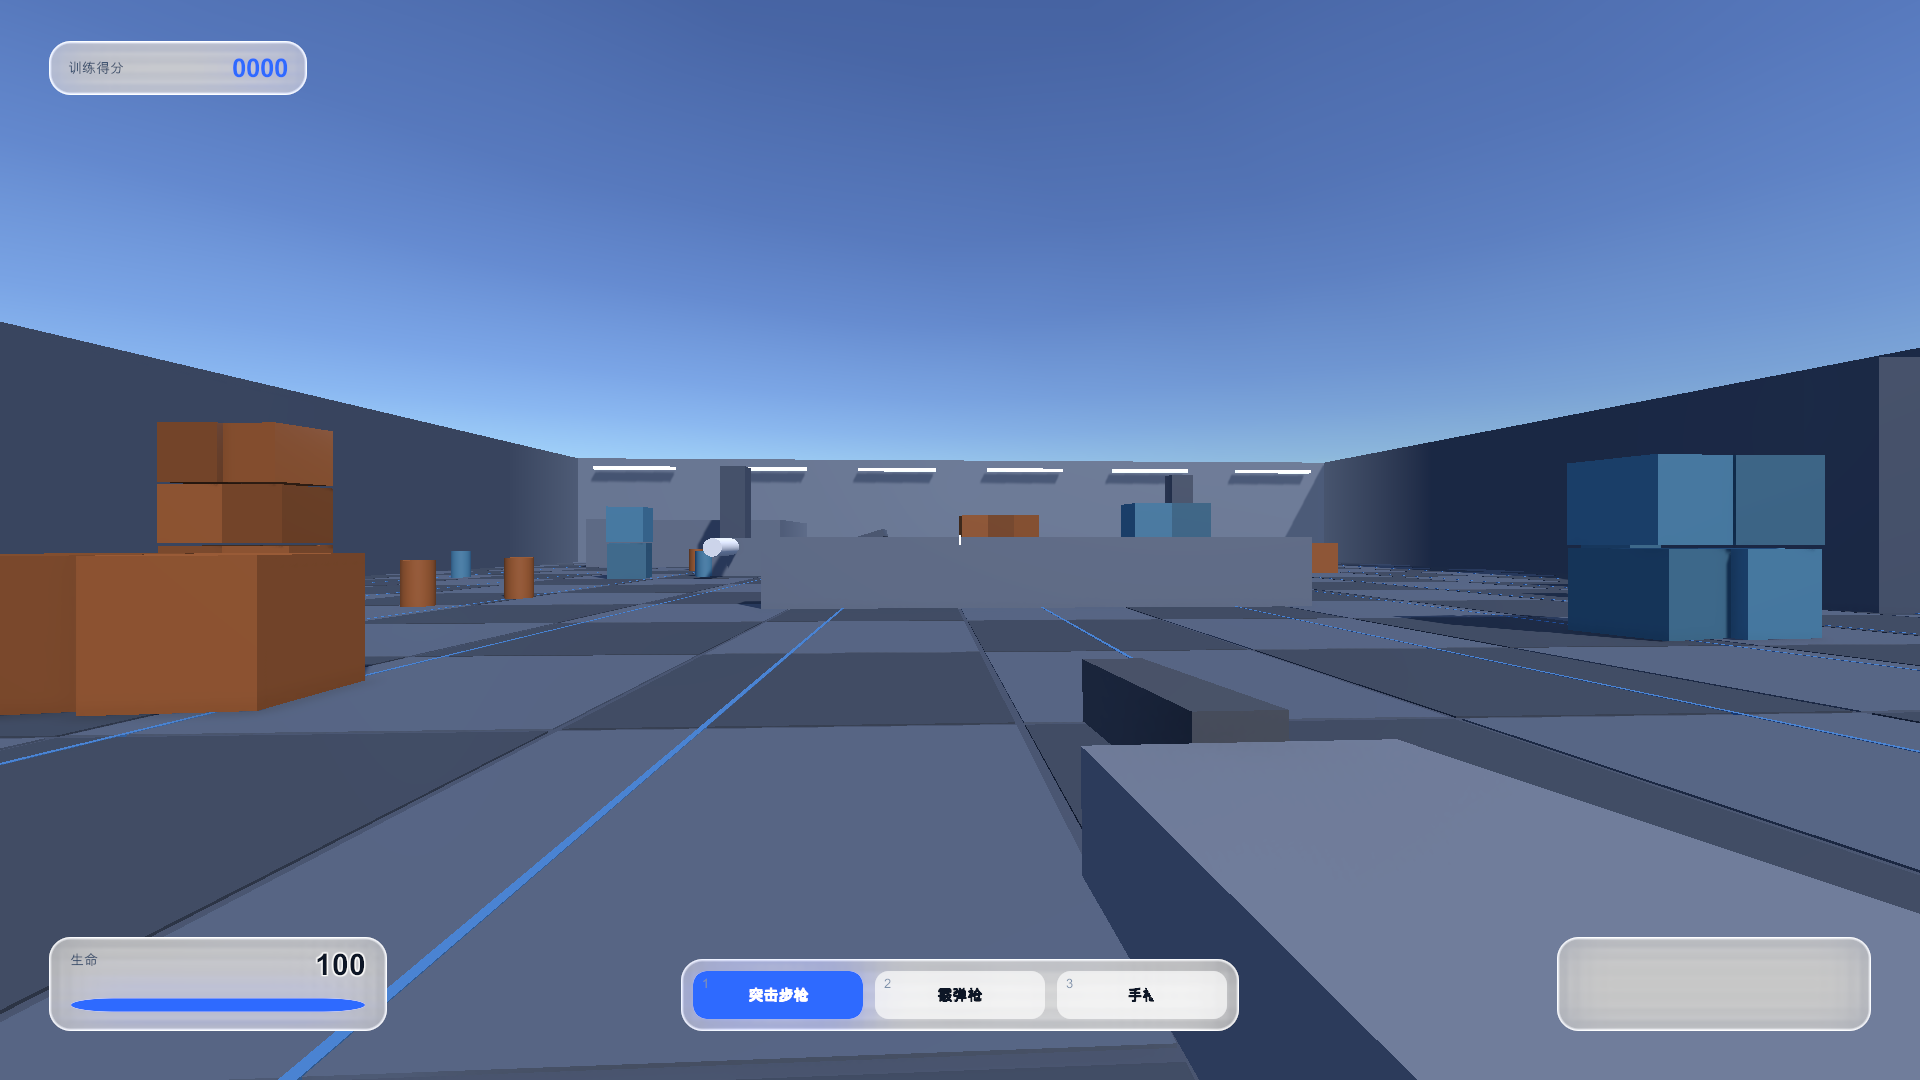
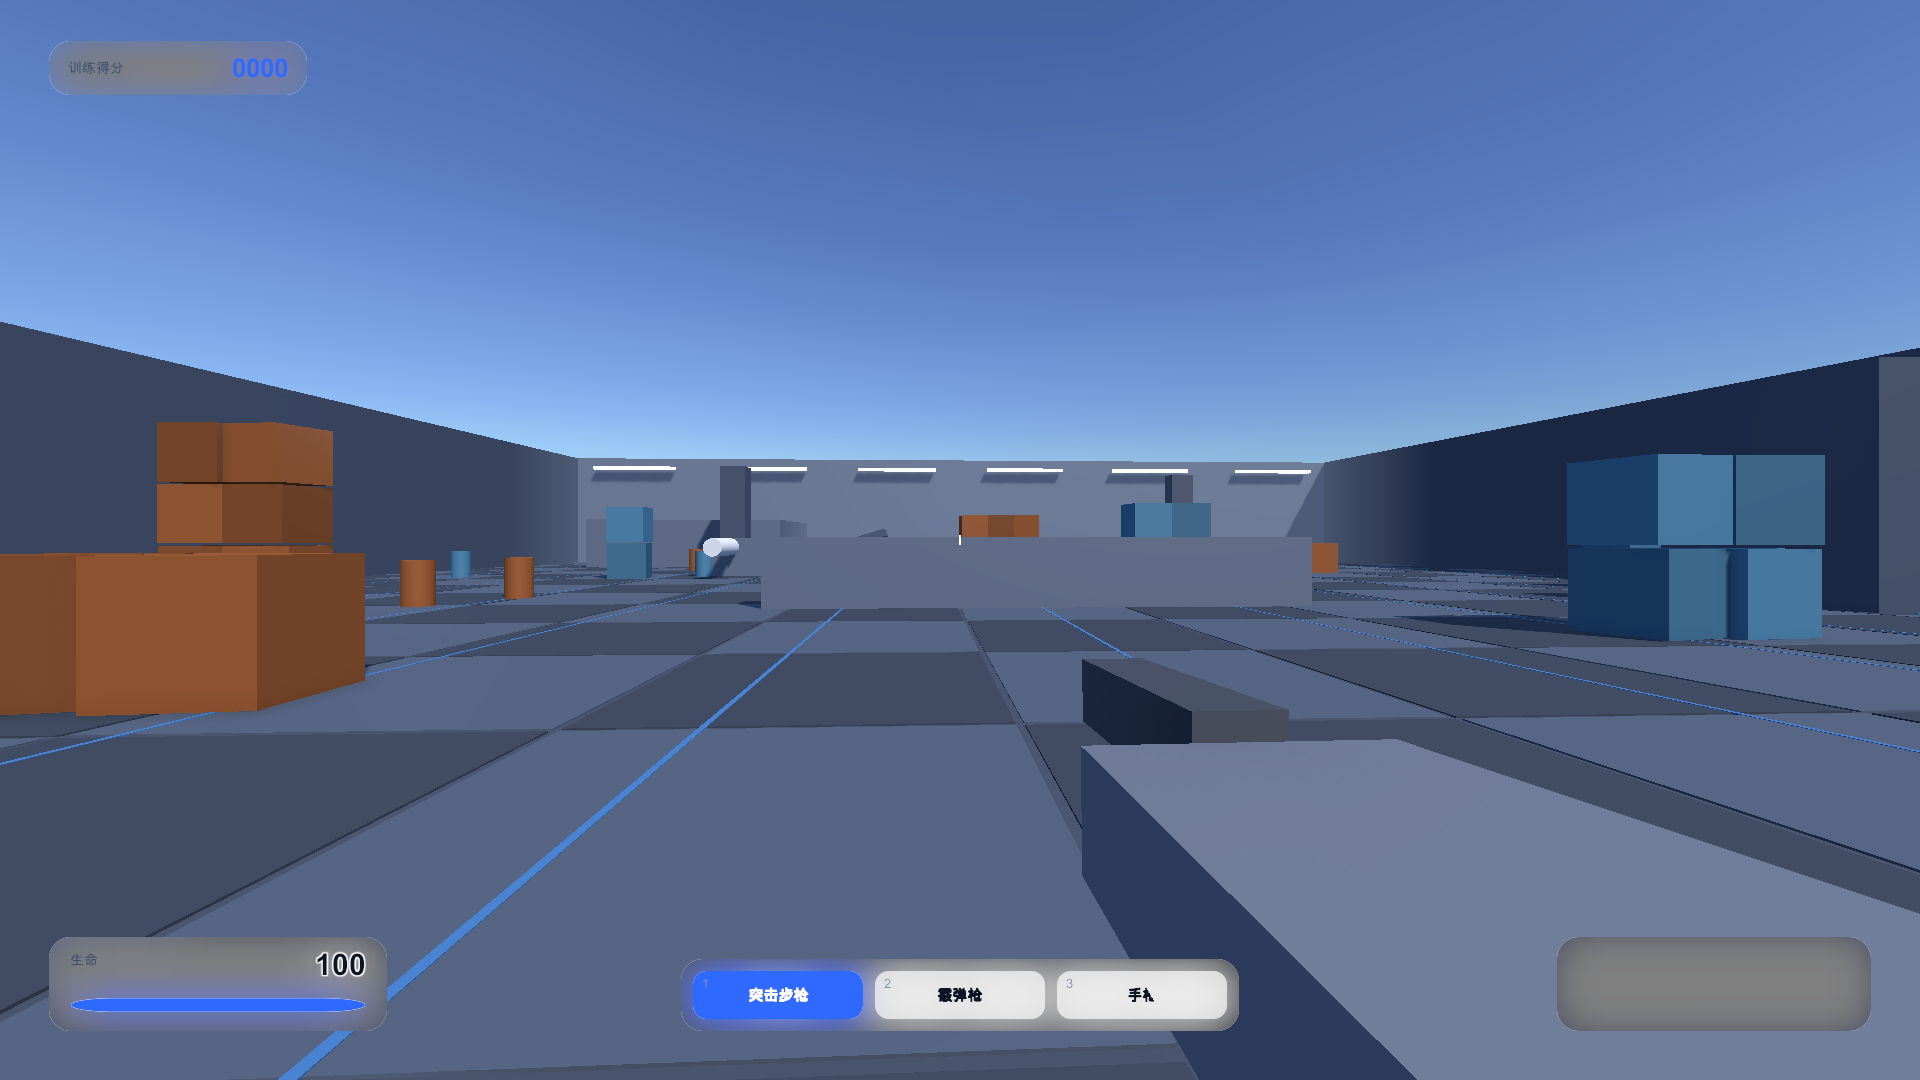
fix(毛玻璃): 去掉白色叠加（奶白度/边缘高光全部移除），模糊改为 17 抽真高斯核（exp 权重，σ 可选，迭代 3 次）
- UI/FrostedGlass：面板内容 = 高斯模糊结果原样输出，只保留圆角与不透明度；_Tint 改为乘法（默认白）
- Hidden/FrostedGlass/Blur：17 抽分离高斯，权重 exp(-x²/2σ²) 现算，核宽由 σ 控制
- Feature 参数：downsample 1/4、σ 2.4、迭代 3（都可在 Renderer 资产上调）
- 顺带修掉 GlassDemoTools 里残留的 radius 字段引用

diff --git a/Assets/Scripts/UI/HudView.cs b/Assets/Scripts/UI/HudView.cs
@@ -144,7 +144,7 @@ namespace GlassUI
 
         void BuildHealth(Transform root)
         {
-            var panel = GlassUI.Panel(root, "Health Panel", GlassTheme.RadiusCard, 0.26f, 1.3f);
+            var panel = GlassUI.Panel(root, "Health Panel", GlassTheme.RadiusCard);
             GlassUI.Place(panel.rectTransform, new Vector2(0f, 0f), new Vector2(340f, 96f), new Vector2(48f, 48f), new Vector2(0f, 0f));
 
             var label = GlassUI.Label(panel.transform, "生命", 14, TextAnchor.UpperLeft, GlassTheme.InkSoft);
@@ -159,7 +159,7 @@ namespace GlassUI
 
         void BuildAmmo(Transform root)
         {
-            var panel = GlassUI.Panel(root, "Ammo Panel", GlassTheme.RadiusCard, 0.26f, 1.3f);
+            var panel = GlassUI.Panel(root, "Ammo Panel", GlassTheme.RadiusCard);
             GlassUI.Place(panel.rectTransform, new Vector2(1f, 0f), new Vector2(316f, 96f), new Vector2(-48f, 48f), new Vector2(1f, 0f));
 
             _weaponName = GlassUI.Label(panel.transform, "—", 15, TextAnchor.UpperRight, GlassTheme.InkSoft);
@@ -175,7 +175,7 @@ namespace GlassUI
 
         void BuildScore(Transform root)
         {
-            var panel = GlassUI.Panel(root, "Score Panel", GlassTheme.RadiusCard, 0.26f, 1.3f);
+            var panel = GlassUI.Panel(root, "Score Panel", GlassTheme.RadiusCard);
             GlassUI.Place(panel.rectTransform, new Vector2(0f, 1f), new Vector2(260f, 56f), new Vector2(48f, -40f), new Vector2(0f, 1f));
 
             var label = GlassUI.Label(panel.transform, "训练得分", 14, TextAnchor.MiddleLeft, GlassTheme.InkSoft);
@@ -189,7 +189,7 @@ namespace GlassUI
 
         void BuildWeaponBar(Transform root)
         {
-            var bar = GlassUI.Panel(root, "Weapon Bar", GlassTheme.RadiusCard, 0.24f, 1.3f);
+            var bar = GlassUI.Panel(root, "Weapon Bar", GlassTheme.RadiusCard);
             GlassUI.Place(bar.rectTransform, new Vector2(0.5f, 0f), new Vector2(560f, 74f), new Vector2(0f, 48f), new Vector2(0.5f, 0f));
             var row = GlassUI.Row(bar.rectTransform, 10f, 12, TextAnchor.MiddleCenter);
             row.childForceExpandWidth = true;
@@ -223,7 +223,7 @@ namespace GlassUI
 
         public void Toast(string message)
         {
-            var panel = GlassUI.Panel(transform, "Toast", GlassTheme.RadiusItem, 0.30f, 1.2f);
+            var panel = GlassUI.Panel(transform, "Toast", GlassTheme.RadiusItem);
             GlassUI.Place(panel.rectTransform, new Vector2(1f, 1f), new Vector2(10f, 40f), new Vector2(-48f, -40f), new Vector2(1f, 1f));
             var row = GlassUI.Row(panel.rectTransform, 0f, 0, TextAnchor.MiddleCenter);
             row.padding = new RectOffset(16, 16, 8, 8);

diff --git a/Assets/Scripts/UI/GlassDemoUi.cs b/Assets/Scripts/UI/GlassDemoUi.cs
@@ -36,7 +36,7 @@ namespace GlassUI
             var root = (RectTransform)transform;
 
             // ---------- 左侧主面板（设置 / 背包的观感）----------
-            var panel = GlassUI.Panel(root, "Main Panel", GlassTheme.RadiusPanel, milkiness, rimBoost, blurStrength);
+            var panel = GlassUI.Panel(root, "Main Panel", GlassTheme.RadiusPanel);
             GlassUI.Place(panel.rectTransform, new Vector2(0f, 0.5f), new Vector2(470f, 566f), new Vector2(56f, 0f), new Vector2(0f, 0.5f));
             GlassUI.Col(panel.rectTransform, 14f, 28, TextAnchor.UpperLeft);
 
@@ -64,7 +64,7 @@ namespace GlassUI
             GlassUI.Flex(secondary, width: 1f);
 
             // ---------- 右上：切换武器 ----------
-            var weaponBar = GlassUI.Panel(root, "Weapon Bar", GlassTheme.RadiusCard, milkiness, rimBoost, blurStrength);
+            var weaponBar = GlassUI.Panel(root, "Weapon Bar", GlassTheme.RadiusCard);
             GlassUI.Place(weaponBar.rectTransform, new Vector2(1f, 1f), new Vector2(430f, 78f), new Vector2(-56f, -48f), new Vector2(1f, 1f));
             var weaponRow = GlassUI.Row(weaponBar.rectTransform, 10f, 12, TextAnchor.MiddleCenter);
             weaponRow.childForceExpandWidth = true;
@@ -74,7 +74,7 @@ namespace GlassUI
             AddWeaponChip(weaponBar.transform, "手枪", false);
 
             // ---------- 底部：战斗 HUD ----------
-            var hud = GlassUI.Panel(root, "Combat HUD", GlassTheme.RadiusCard, milkiness, rimBoost, blurStrength);
+            var hud = GlassUI.Panel(root, "Combat HUD", GlassTheme.RadiusCard);
             GlassUI.Place(hud.rectTransform, new Vector2(0.5f, 0f), new Vector2(880f, 104f), new Vector2(0f, 48f), new Vector2(0.5f, 0f));
             GlassUI.Row(hud.rectTransform, 22f, 20, TextAnchor.MiddleCenter);
 
@@ -91,7 +91,7 @@ namespace GlassUI
             GlassUI.Fix(ammo, 150f, 30f);
 
             // ---------- 右下：提示卡 ----------
-            var tip = GlassUI.Panel(root, "Tip Card", GlassTheme.RadiusCard, milkiness, rimBoost, blurStrength);
+            var tip = GlassUI.Panel(root, "Tip Card", GlassTheme.RadiusCard);
             GlassUI.Place(tip.rectTransform, new Vector2(1f, 0f), new Vector2(360f, 92f), new Vector2(-56f, 48f), new Vector2(1f, 0f));
             var tipLabel = GlassUI.Label(tip.transform, "鼠标移到按钮上试试非线性反馈", 15, TextAnchor.MiddleCenter,
                 GlassTheme.InkSoft, true);

diff --git a/Assets/Scripts/UI/GlassMaterials.cs b/Assets/Scripts/UI/GlassMaterials.cs
@@ -47,7 +47,7 @@ namespace GlassUI
     public static class GlassMaterials
     {
         static Material _rounded;
-        static readonly Dictionary<int, Material> FrostedCache = new Dictionary<int, Material>();
+        static Material _frosted;
         static readonly Dictionary<int, Material> StrokedCache = new Dictionary<int, Material>();
 
         /// <summary>实心圆角块：颜色走顶点色，所以全工程共用一份材质。</summary>
@@ -62,25 +62,16 @@ namespace GlassUI
             return _rounded;
         }
 
-        /// <summary>毛玻璃：奶白度不同就各要一份材质（同一档位共用）。</summary>
-        public static Material Frosted(float milkiness, float rimBoost = 1f, float blurStrength = 1f)
+        /// <summary>毛玻璃：全工程共用一份材质（纯高斯模糊结果，没有叠加项，所以无需按参数分档）。</summary>
+        public static Material Frosted()
         {
-            int key = Mathf.RoundToInt(milkiness * 100f) * 10000 + Mathf.RoundToInt(rimBoost * 100f) * 100 + Mathf.RoundToInt(blurStrength * 100f);
-            if (FrostedCache.TryGetValue(key, out var cached) && cached != null) return cached;
-
-            var shader = Shader.Find("UI/FrostedGlass");
-            if (shader == null) return null;
-
-            var material = new Material(shader)
+            if (_frosted == null)
             {
-                name = $"FrostedGlass (milk {milkiness:0.00})",
-                hideFlags = HideFlags.HideAndDontSave,
-            };
-            material.SetFloat("_Milkiness", milkiness);
-            material.SetFloat("_RimBoost", rimBoost);
-            material.SetFloat("_BlurStrength", blurStrength);
-            FrostedCache[key] = material;
-            return material;
+                var shader = Shader.Find("UI/FrostedGlass");
+                if (shader == null) return null;
+                _frosted = new Material(shader) { name = "FrostedGlass (shared)", hideFlags = HideFlags.HideAndDontSave };
+            }
+            return _frosted;
         }
 
         /// <summary>带描边的实心圆角块（输入框、选中态描边）。</summary>

diff --git a/Assets/Scripts/UI/SettingsView.cs b/Assets/Scripts/UI/SettingsView.cs
@@ -33,7 +33,7 @@ namespace GlassUI
 
         public static SettingsView Create(Transform root, Camera camera, Game.PlayerController player, VolumeProfile profile)
         {
-            var panel = GlassUI.Panel(root, "设置", GlassTheme.RadiusPanel, 0.09f);
+            var panel = GlassUI.Panel(root, "设置", GlassTheme.RadiusPanel);
             GlassUI.Place(panel.rectTransform, new Vector2(0.5f, 0.5f), new Vector2(980f, 620f), Vector2.zero);
             var view = panel.gameObject.AddComponent<SettingsView>();
             view._camera = camera;
@@ -60,7 +60,7 @@ namespace GlassUI
             GlassUI.Flex(body, -1f, 1f);
 
             // 左侧页签
-            var tabs = GlassUI.Panel(body, "Tabs", GlassTheme.RadiusCard, 0.10f);
+            var tabs = GlassUI.Panel(body, "Tabs", GlassTheme.RadiusCard);
             tabs.rectTransform.anchorMin = new Vector2(0f, 0f);
             tabs.rectTransform.anchorMax = new Vector2(0.28f, 1f);
             tabs.rectTransform.offsetMin = Vector2.zero;
@@ -93,7 +93,7 @@ namespace GlassUI
             }
 
             // 右侧页面
-            var page = GlassUI.Panel(body, "Page", GlassTheme.RadiusCard, 0.10f);
+            var page = GlassUI.Panel(body, "Page", GlassTheme.RadiusCard);
             page.rectTransform.anchorMin = new Vector2(0.28f, 0f);
             page.rectTransform.anchorMax = new Vector2(1f, 1f);
             page.rectTransform.offsetMin = new Vector2(12f, 0f);

diff --git a/Assets/Scripts/UI/GlassUI.cs b/Assets/Scripts/UI/GlassUI.cs
@@ -198,17 +198,17 @@ namespace GlassUI
         // ---------------- 图元 ----------------
 
         /// <summary>
-        /// 毛玻璃面板：背景 = 身后画面被 URP 模糊后的样子，按屏幕 UV 1:1 裁切。
+        /// 毛玻璃面板：背景 = 身后画面被 URP 做完高卷积核高斯模糊后的样子，按屏幕 UV 1:1 裁切。
+        /// 纯模糊结果，不加任何白色/彩色叠加。
         /// 形状与圆角来自九宫格贴图（alpha），所以直接把 Image 用起来——布局、遮罩、Filled 都能照常使。
         /// </summary>
-        public static Image Panel(Transform parent, string name = "Glass Panel", float radius = GlassTheme.RadiusPanel,
-            float milkiness = 0.07f, float rimBoost = 1f, float blurStrength = 1f)
+        public static Image Panel(Transform parent, string name = "Glass Panel", float radius = GlassTheme.RadiusPanel)
         {
             var rt = Node(parent, name);
             var image = rt.gameObject.AddComponent<Image>();
             image.sprite = GlassSprites.Get(GlassSprites.ForRadius(radius));
             image.type = Image.Type.Sliced;
-            image.material = GlassMaterials.Frosted(milkiness, rimBoost, blurStrength);
+            image.material = GlassMaterials.Frosted();
             image.color = Color.white;      // 白色 = 不给玻璃上色
             image.raycastTarget = true;
             return image;

diff --git a/Assets/Scripts/Rendering/FrostedGlassFeature.cs b/Assets/Scripts/Rendering/FrostedGlassFeature.cs
@@ -25,11 +25,11 @@ namespace GlassUI
             [Tooltip("降采样倍数（0 = 原分辨率，2 = 1/4）。越大越省、越糊，但也越看不出原来的形状")]
             [Range(0, 4)] public int downsample = 2;
 
-            [Tooltip("分离高斯来回次数，越多越糊")]
-            [Range(1, 6)] public int iterations = 2;
+            [Tooltip("高斯迭代次数：每次都是横向+纵向一遍，等效核按 √n 变宽")]
+            [Range(1, 6)] public int iterations = 3;
 
-            [Tooltip("每次迭代的抽样半径（以降采样后的像素为单位）")]
-            [Range(0.2f, 8f)] public float radius = 2.2f;
+            [Tooltip("高斯 σ（以目标像素为单位），就是「核有多宽」")]
+            [Range(0.2f, 12f)] public float sigma = 2.4f;
         }
 
         public Settings settings = new Settings();
@@ -124,7 +124,7 @@ namespace GlassUI
 
                 var cmd = CommandBufferPool.Get("Frosted Glass Blur");
                 cmd.SetGlobalVector(TexelSizeId, new Vector4(1f / width, 1f / height, width, height));
-                cmd.SetGlobalFloat(RadiusId, _settings.radius);
+                cmd.SetGlobalFloat(RadiusId, _settings.sigma);
 
                 // 第一遍顺便完成降采样：直接 blit 到 1/2^n 分辨率，双线性就是最省的下采样
                 cmd.SetGlobalVector(DirectionId, new Vector2(1f, 0f));

diff --git a/Assets/Scripts/UI/InventoryView.cs b/Assets/Scripts/UI/InventoryView.cs
@@ -35,7 +35,7 @@ namespace GlassUI
 
         public static InventoryView Create(Transform root)
         {
-            var panel = GlassUI.Panel(root, "背包", GlassTheme.RadiusPanel, 0.09f);
+            var panel = GlassUI.Panel(root, "背包", GlassTheme.RadiusPanel);
             GlassUI.Place(panel.rectTransform, new Vector2(0.5f, 0.5f), new Vector2(1080f, 660f), Vector2.zero);
             var view = panel.gameObject.AddComponent<InventoryView>();
             view.BuildUi(panel.transform);
@@ -84,7 +84,7 @@ namespace GlassUI
             _grid.offsetMin = Vector2.zero;
             _grid.offsetMax = new Vector2(-12f, 0f);
 
-            var detail = GlassUI.Panel(body, "Detail", GlassTheme.RadiusCard, 0.10f);
+            var detail = GlassUI.Panel(body, "Detail", GlassTheme.RadiusCard);
             detail.rectTransform.anchorMin = new Vector2(0.62f, 0f);
             detail.rectTransform.anchorMax = new Vector2(1f, 1f);
             detail.rectTransform.offsetMin = new Vector2(12f, 0f);

diff --git a/Assets/Editor/GlassDemoTools.cs b/Assets/Editor/GlassDemoTools.cs
@@ -60,7 +60,7 @@ namespace GlassUI.EditorTools
                     // 已存在就把参数同步成代码里的默认值——不然改了默认值，老资产不会跟着变
                     feature.settings = new FrostedGlassFeature.Settings();
                     Debug.Log($"[GlassUI] {path} 已有 Feature，参数已同步为代码默认值" +
-                              $"（降采样 1/{1 << feature.settings.downsample}，半径 {feature.settings.radius}）");
+                              $"（降采样 1/{1 << feature.settings.downsample}，高斯 σ {feature.settings.sigma}、迭代 {feature.settings.iterations}）");
                 }
 
                 EditorUtility.SetDirty(feature);

diff --git a/Assets/Scripts/UI/GameUi.cs b/Assets/Scripts/UI/GameUi.cs
@@ -148,7 +148,7 @@ namespace GlassUI
 
         void BuildIntro(RectTransform root)
         {
-            var card = GlassUI.Panel(root, "Intro", GlassTheme.RadiusPanel, 0.10f);
+            var card = GlassUI.Panel(root, "Intro", GlassTheme.RadiusPanel);
             _introRect = card.rectTransform;
             GlassUI.Place(_introRect, new Vector2(0.5f, 0.5f), new Vector2(760f, 320f), Vector2.zero);
             _introGroup = GlassUI.Group(_introRect, 0f, true, true);

diff --git a/README.md b/README.md
@@ -23,9 +23,12 @@
    **把相机颜色拷出来 → 降采样到 1/4 → 先横后竖做分离式高斯（两次迭代）→ 作为全局纹理 `_FrostedGlassTex` 公布出去。**
 2. UI 那边用 `UI/FrostedGlass` 着色器按**屏幕 UV** 采这张图 —— 所以每块面板显示的正好是它身后那块被糊掉的画面，
    1:1 精确裁切，不平铺、不拉伸（这就是"按 uv 精确裁切"的落点）。
-3. 圆角、描边、边缘高光来自程序化生成的九宫格遮罩（`GlassSpriteGenerator`，A=形状 / R=边缘渐变 / G=描边带），
-   所以控件直接用 `Image`，任意尺寸任意圆角都不用换贴图，后面进度条也能用 `Image.Type.Filled`。
-4. 玻璃默认不叠任何色调（`_Tint` 保持白），只有一个 `_Milkiness` 奶白度用来保证文字可读性，以及一个可关的边缘高光。
+3. 模糊是**高卷积核真高斯**：分离式 17 抽，权重用 `exp(-x²/2σ²)` 现算（不是盒状近似），
+   横竖各一遍 = 等效 17×17 核，迭代 3 次等效核再按 √3 变宽。σ 和迭代次数就是"核有多大"的参数。
+4. **玻璃上不加任何叠加**：没有白色叠加、没有边缘高光、没有染色。
+   面板内容 = 高斯模糊后的画面原样输出，只保留圆角（九宫格遮罩 alpha）与不透明度。
+   要压暗用 `_Tint`（乘法，默认白 = 不变），它是乘不是叠。
+5. 圆角/描边来自程序化生成的九宫格遮罩（`GlassSpriteGenerator`），所以控件直接用 `Image`，任意尺寸任意圆角都不用换贴图。
 
 参数在 `Assets/Settings/URP-*-Renderer.asset` 上（选中那个 Renderer 资产就能看到 Frosted Glass Blur 的降采样/迭代/半径）。
 
